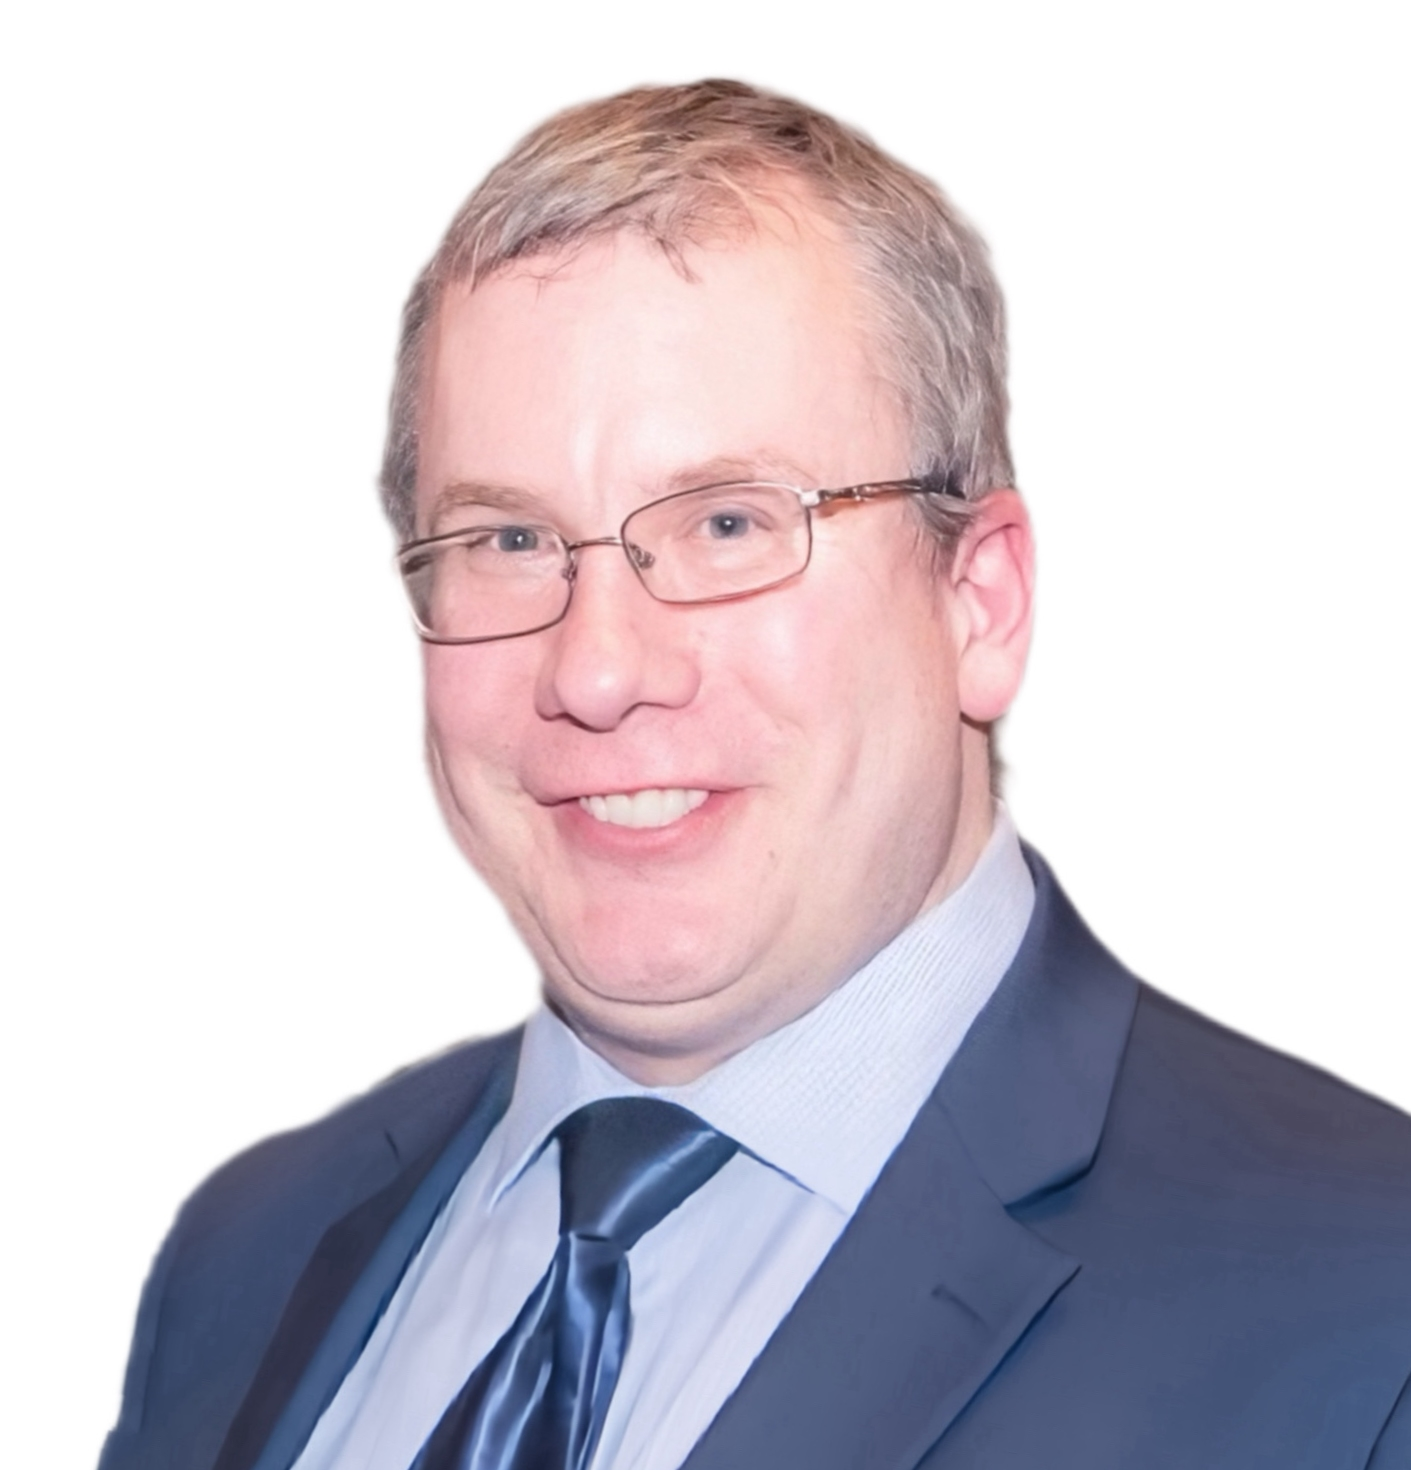
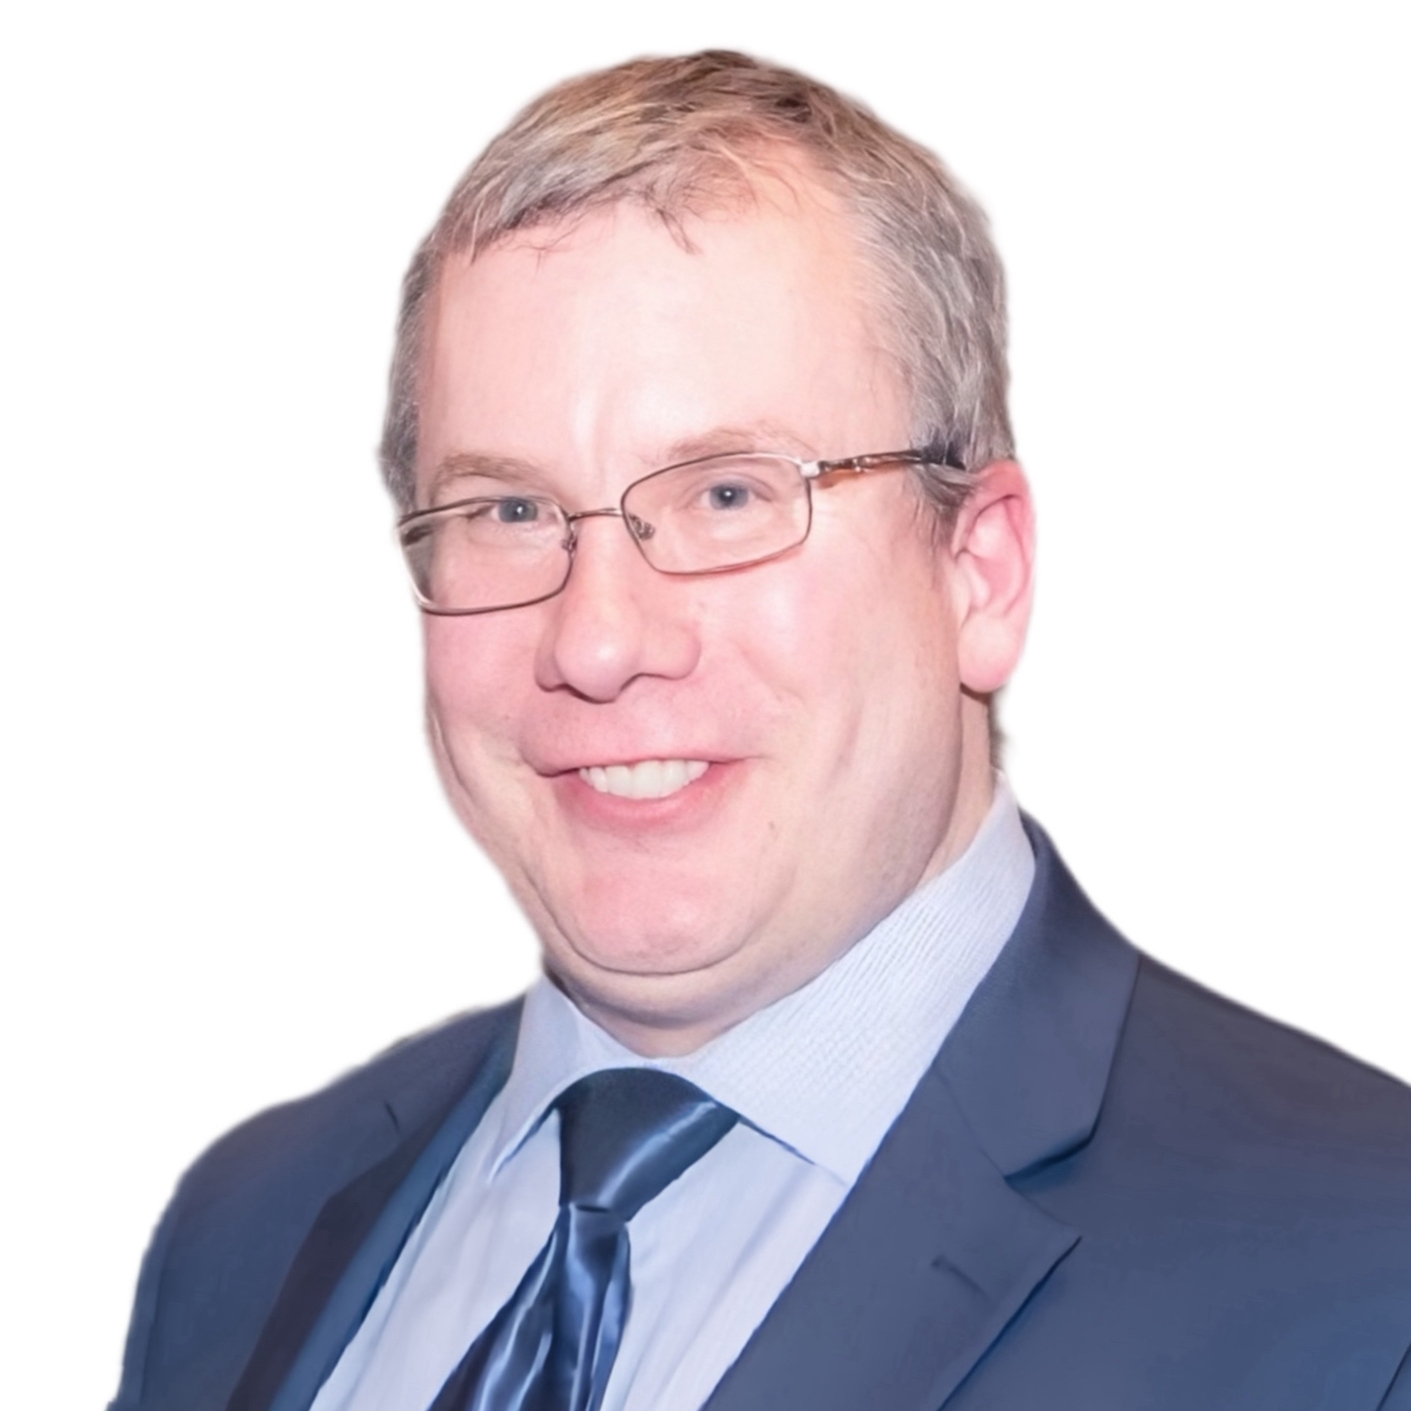
23432

diff --git a/docs/assets/css/other.css b/docs/assets/css/other.css
@@ -33,3 +33,9 @@
 	padding-left: 1em;
 	margin: 0 auto;
 }
+
+/* grid cards multiple columns */
+
+.md-typeset .grid {
+	grid-template-columns: repeat(auto-fit, minmax(12rem, 1fr));
+}

diff --git a/docs/index.md b/docs/index.md
@@ -1,9 +1,9 @@
 <style>
 
 img.avatar {
-  border-radius: 50%;
-  box-shadow: 0 0 20px rgba(0, 0, 0, 0.4);
-	width: 120px;
+  /* border-radius: 50%; */
+  /* box-shadow: 0 0 20px rgba(0, 0, 0, 0.4); */
+	width: 100%;
 	margin-top: 25px;
 }
 
@@ -32,11 +32,135 @@ img.avatar {
 	padding-right: 0;
 } 
 img.avatar {
-	width: 80px;
-	translate: 0 1rem;
+	width: 100%;
+	/* translate: 0 1rem; */
 }
 }
 </style>
+
+# 本所移民业务介绍
+
+## 本所简介
+
+顶誉律师行(Jade Sunrise Law)，前身为张红倩律师事务所，由阿尔伯塔省律师张红倩于 2016 年 1 月创立。作为一家能够用中英文提供高质量法律服务的律师事务所，我们的目标是扎根专业，以客户需求为导向，为阿省及全国客户提供卓越的双语法律服务。
+
+我们团队经验丰富，能够在多项法律领域为您提供服务。我们的业务范围包括公司法和商业法、民商事诉讼、家庭法、房地产法、移民法、遗嘱、财富传承以及公证服务。
+
+目前，我们在卡尔加里和埃德蒙顿两地设有办公室。
+
+## 移民法业务
+
+在顶誉律师行，我们的专业移民团队致力于为客户提供全面的法律支持，帮助他们应对移民法的复杂性。我们理解移民过程充满挑战，而每个客户的情况又都是独特的。我们的团队为客户量身定制移民方案，努力帮助客户实现他们的移民目标。
+
+我们的移民法服务包括但不限于:
+
+<div class="grid cards" markdown>
+
+- <i style="font-size: 1.2em; color: teal; font-weight: 500" class="fa-regular fa-address-card"> 临时居留</i>
+
+      ---
+
+      我们协助客户获得临时居留许可，包括访问签证、学习许可和工作许可，指导他们完成申请过程并确保符合所有必要要求。
+
+- <i style="font-size: 1.2em; color: teal; font-weight: 500" class="fa-regular fa-address-card"> 永久居留</i>
+
+      ---
+
+      我们帮助客户通过各种项目申请永久居留，如快速 通道、省提名计划和家庭担保，确保他们的申请完整且准确反映他们的资格。
+
+- <i style="font-size: 1.2em; color: teal; font-weight: 500" class="fa-regular fa-address-card"> 公民身份</i>
+
+      ---
+
+      我们指导客户申请加拿大公民身份，帮助他们准备公民测试并在申请过程中提供法律支持。
+
+- <i style="font-size: 1.2em; color: teal; font-weight: 500" class="fa-regular fa-address-card"> 商业移民</i>
+
+      ---
+
+      我们协助企业家和投资者了解各种商业移民计划，帮助他们在加拿大创立或投资企业，并获得必要的许可和签证。
+
+- <i style="font-size: 1.2em; color: teal; font-weight: 500" class="fa-regular fa-address-card"> 家庭团聚</i>
+
+      ---
+
+      我们协助客户通过担保过程与加拿大的家庭成员团聚，解决可能出现的任何法律问题。
+
+- <i style="font-size: 1.2em; color: teal; font-weight: 500" class="fa-regular fa-address-card"> 难民和庇护申请</i>
+
+      ---
+
+      我们的律师代表客户进行难民和庇护申请，提供法 律支持并在整个过程中为他们辩护。
+
+- <i style="font-size: 1.2em; color: teal; font-weight: 500" class="fa-regular fa-address-card"> 移民上诉和司法审查</i>
+
+      ---
+
+      我们代表客户进行移民上诉和司法审查，挑战不利决定并努力获得成功的结果。
+
+- <i style="font-size: 1.2em; color: teal; font-weight: 500" class="fa-regular fa-address-card"> 合规和执法</i>
+
+      ---
+
+      我们帮助客户确保遵守移民法律法规，就诸如不予准入、驱逐令和拘留审查等问题提供咨询。
+
+</div>
+
+## 团队成员
+
+<div class="grid cards" markdown>
+
+- **张红倩律师(Kathy Zhang)**
+
+      ---
+
+      <img class="avatar" src="/assets/img/kathy.jpg" alt="Avatar">
+
+      张红倩律师，毕业于中国顶级法学院，并获得香港大学普通法硕士学位和加拿大达尔豪斯大学法学硕士学位。张律师曾在深圳市中级人民法院担任法官，审理商事和民事纠纷。
+
+      张律师是加拿大为数极少的在中加两地均具有多年工作经验的律师，尤其是她在中国担任法官职务的经历让她具有成熟的法律思维，可以从司法裁决者的视角分析法律问题，具有极强的解决复杂法律问题的能力，是阿尔伯塔少有的能为您提供中加跨境法律服务的资深律师。
+
+- **Russ Weninger 律师**
+
+      ---
+
+      <img class="avatar" src="assets/img/russ-square.jpg" alt="Avatar">
+
+      Russ Weninger 律师，毕业于加拿大历史最悠久的法学院之一， Dalhousie 法学院，是加拿大阿尔伯塔省资深移民法律师。Russ 律师在卡尔加里执业多年，曾多次担任律师协会移民法分会负责人，业务领域覆盖从移民申请到上诉和联邦法院司法复查。
+
+      他多次受邀给律师同行、市政府和司法部门进行法律培训和业务指导，Russ 律师丰富的移民法执业经验和敬业的工作态度使他成为卡尔加里最受欢迎的移民法律师之一。
+
+- **关馨律师**
+
+      ---
+
+      <img class="avatar" src="assets/img/Grace-square-big.jpg" alt="Avatar">
+
+      关馨律师拥有中国法律硕士学位，曾任职于一家大型跨国企业法律部多年，拥有丰富的工作经验和卓越的客户沟通能力。
+
+      关律师自2017年加盟顶誉律师行，目前负责事务所移民相关事务，以及涉及中加两地的国际公证认证业务。经过多年的工作理解，关律师与各级政府部门建立了良好的工作关系，已协助数千客户完成了移民及公证认证工作。
+
+- **崔肖龙**
+
+      ---
+
+      <img class="avatar" src="assets/img/larry-square-big.jpg" alt="Avatar">
+
+      崔肖龙本科就读于北京大学法律系;研究生就读于加拿大多伦多大学。崔肖龙持有中国内地职业律师证书，在国内从事多年的律师工作，并先后在若干知名企业担任公司法务。
+
+      崔肖龙于2023年5月加入顶誉律师行的团队，目前作为律师助理， 主要协助本所律师提供移民法、房地产及公司法务等方面的支持工作。
+
+- **Sophie Ning**
+
+      ---
+
+      <img class="avatar" src="assets/img/sophie-square-big.jpg" alt="Avatar">
+
+      本科毕业于吉林大学法学院并获得法学学士学位; 研究生就读于英国杜伦大学并获得法学硕士学位。Sophie Ning持有中国执业律师证书，具有丰富的诉讼/非诉律师经验，并具有中国境内多家大型跨国公司法务工作经验。
+
+      Sophie Ning 目前在顶誉律师行担任律师助理一职，主要协助本所律师提供移民法、家庭法及诉讼等方面的支持工作。
+
+</div>
 
 ## 预约咨询通道
 
@@ -46,11 +170,11 @@ img.avatar {
 
  <!-- ![img](QR-Kathy.jpg) -->
 
- <img src="qr_kathy.jpg" style="max-width: 250px"/>
+<img src="assets/img/qr_kathy.jpg" style="max-width: 15em"/>
 
-## 张律师致辞
+<!-- ## 张律师致辞 -->
 
-<div class="kathySayHello">
+<!-- <div class="kathySayHello">
 <p>各位客户和广大网友，大家好！</p>
 
 <p>我们是一家以移民法、商法和婚姻家庭法见长的卡尔加里本地律师事务所。</p>
@@ -58,30 +182,7 @@ img.avatar {
 <p>在多年的移民法律服务过程中，我们深知除了极少数的幸运儿，大部分移民申请人都会经历一个漫长而煎熬的申请过程，而申请人是否能遇到一家专业、尽职的中介机构为移民之旅保驾护航，不仅仅决定了移民过程是否顺遂和高效，更有可能是成功与失败的天壤之别。</p>
 
 <p>我们希望通过扎实的业务和真诚的服务，为申请人量身定制最适合的移民方案，助力您在移民之路上行稳致远，顺利抵达梦想的彼岸。</p>
-</div>
-
-<div class="undersign-container">
-<img class="avatar" src="/assets/img/kathy.jpg" alt="Avatar">
-
-<div class="text-wrapper">
-<p>张红倩律师（Kathy Zhang）</p>
-
-<p>张律师有中加两国顶级法学院的教育经历，在国内有近十年的法官经验，在加拿大亦有十多年的律师执业经验。独特的教育背景和工作经历，让张律师能深刻理解国内客户诉求，提供精准法律服务。张律师擅长业务领域是移民法、商法和家庭法。</p>
-</div>
-</div>
-
-<div class="undersign-container">
-<img class="avatar" src="assets/img/russ-square.jpg" alt="Avatar">
-
-<div class="text-wrapper">
-<p>Russ Weninger 律师</p>
-
-<p>Russ Weninger 律师毕业于加拿大历史最悠久的法学院之一，Dalhousie 法学院，是加拿大阿尔伯塔省资深移民法律师。Russ 律师在卡尔加里执业多年，曾多次担任律师协会移民法分会负责人，业务领域覆盖从移民申请到上诉和联邦法院司法复查。他多次受邀给律师同行，市政府，和司法部门进行法律培训和业务指导，Russ 律师丰富的移民法执业经验和敬业的工作态度使他成为卡尔加里最受欢迎的移民法律师之一。</p>
-
-<p>Russ 律师酷爱亚洲文化，他选择加盟本所，以帮助来自国内的移民申请者到加拿大安居乐业，实现他们的移民梦想。</p>
-
-</div>
-</div>
+</div> -->
 
 ## 本所联系方式
 
